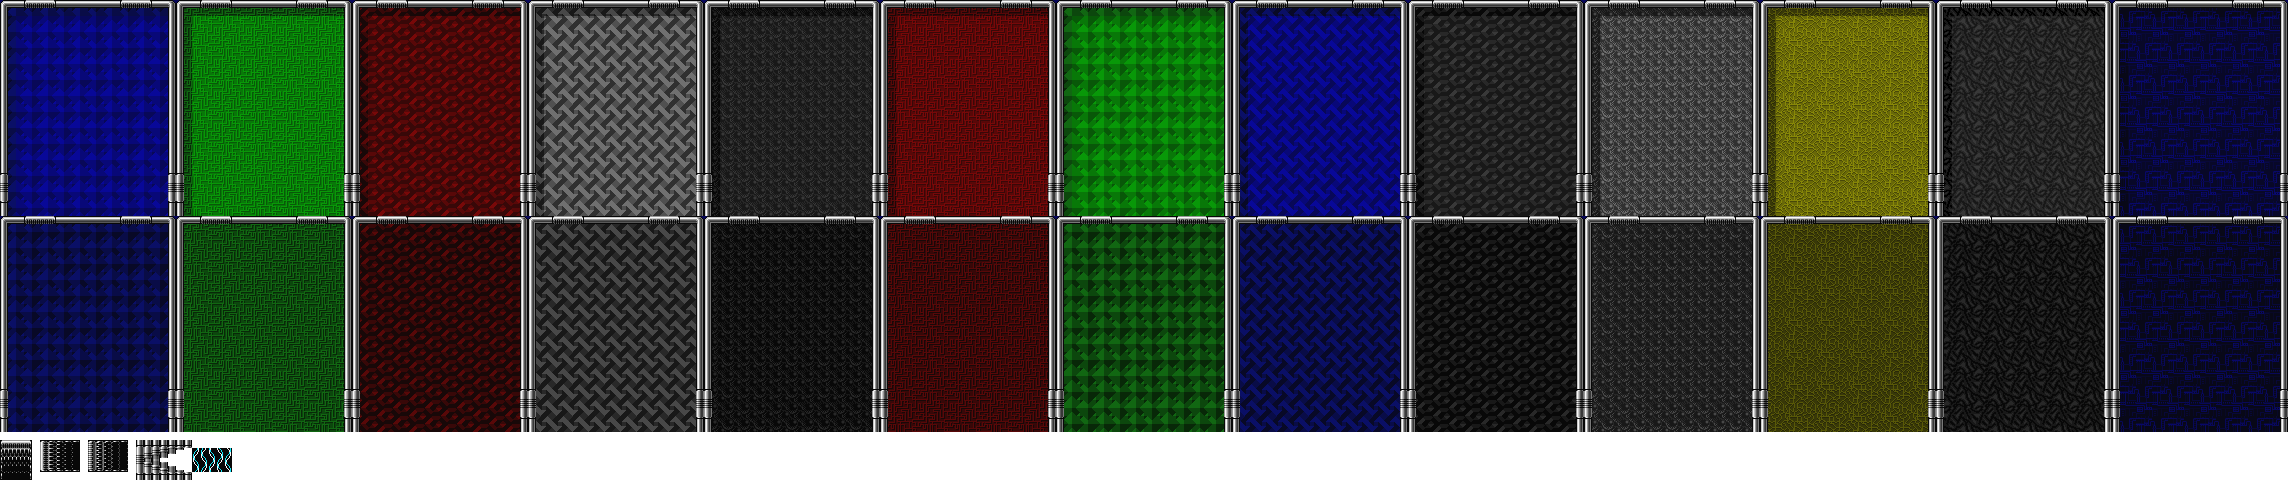
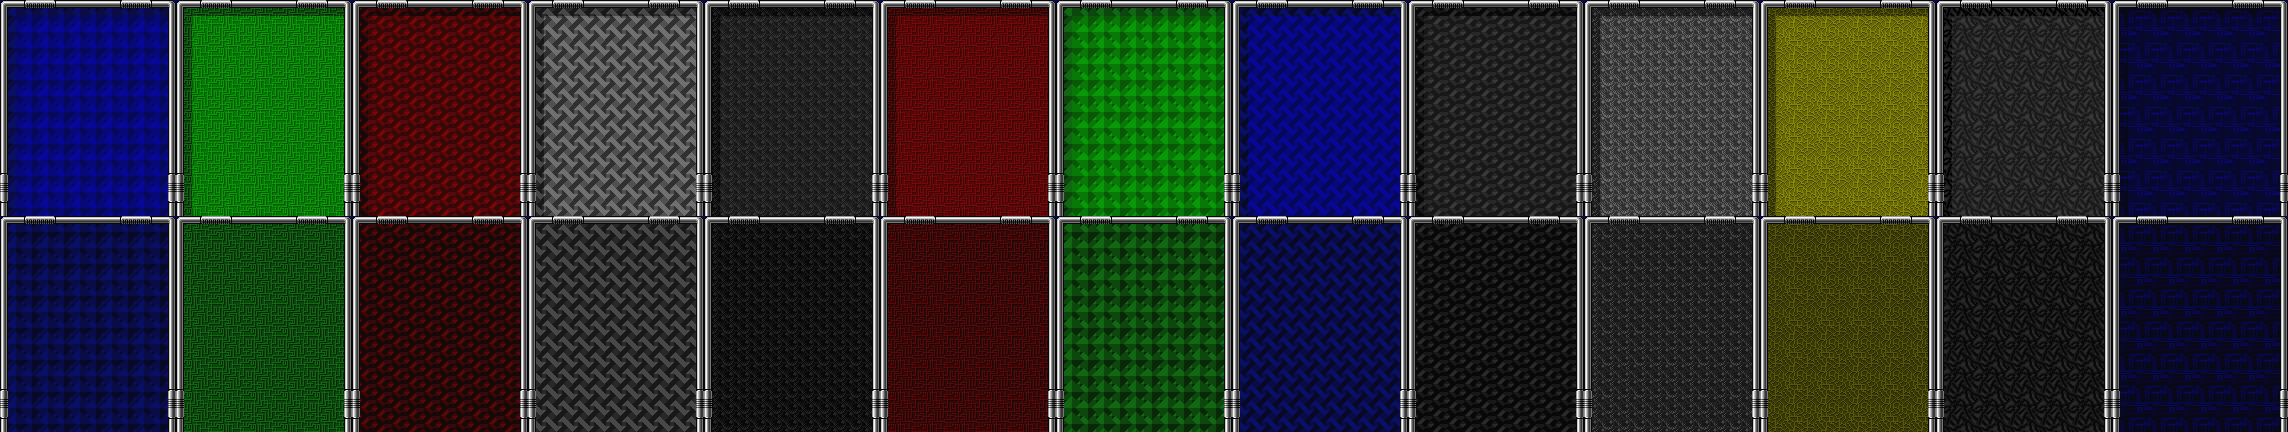
이창준 : 반사

diff --git a/ContentsProject/PlayGameMode.cpp b/ContentsProject/PlayGameMode.cpp
@@ -21,7 +21,7 @@ void APlayGameMode::BeginPlay()
 		for (int j = 0; j < 5; ++j)
 		{
 			ABrick* Ptr = GetWorld()->SpawnActor<ABrick>();
-			Ptr->SetActorLocation({ 320 + (BrickScale.iX() * i), 160 + (BrickScale.iY() * j) });
+			Ptr->SetActorLocation({ 64 + (BrickScale.iX() * i), 160 + (BrickScale.iY() * j) });
 			Ptr->SetActorScale({ BrickScale.iX(), BrickScale.iY() });
 		}
 	}

diff --git a/EngineBase/EngineMath.h b/EngineBase/EngineMath.h
@@ -86,6 +86,17 @@ public:
 		return;
 	}
 
+	float Dot(FVector2D _DirVector)
+	{
+		float result = X * _DirVector.X + Y * _DirVector.Y;
+		return result;
+	}
+
+	FVector2D Reflect(FVector2D _P, FVector2D _N)
+	{
+
+	}
+
 	FVector2D operator*(float _Value) const
 	{
 		FVector2D Result;

diff --git a/ContentsProject/Brick.cpp b/ContentsProject/Brick.cpp
@@ -93,7 +93,8 @@ void ABrick::Tick(float _DeltaTime)
 			UEngineDebug::OutPutString("Bottom");
 			if (APlayer::Ball->Dir.Y < 0)
 			{
-				APlayer::Ball->Dir.Y *= -1;
+				APlayer::Ball->Dir = 
+				//APlayer::Ball->Dir.Y *= -1;
 			}
 		}
 	}

diff --git a/ContentsProject/PlayMap.cpp b/ContentsProject/PlayMap.cpp
@@ -11,7 +11,7 @@ APlayMap::APlayMap()
 	SetActorLocation(WindowSize.Half());
 	SetActorScale(WindowSize);
 	
-	SetSprite("Bricks.png");
+	SetSprite("Fields1.png");
 }
 
 APlayMap::~APlayMap()
